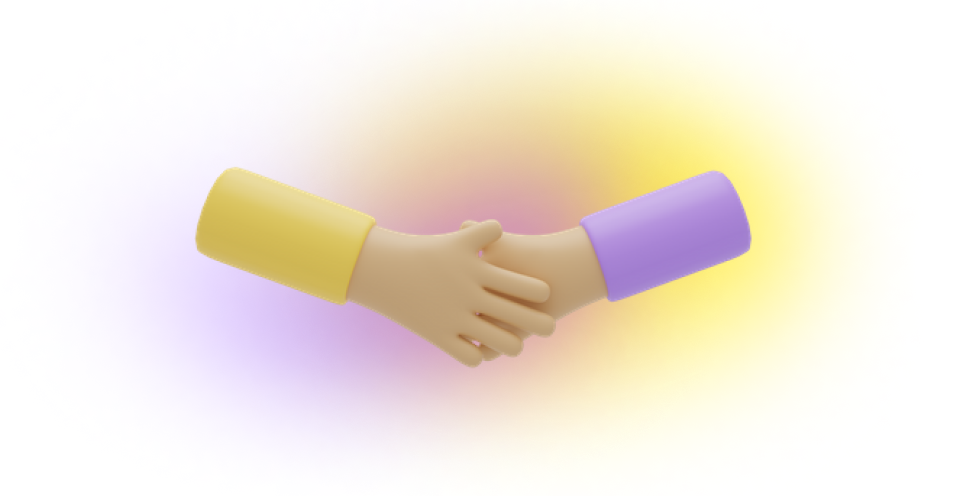
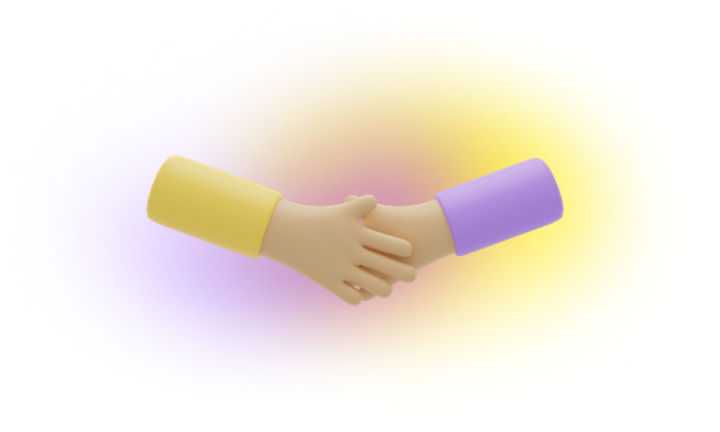
update image

diff --git a/src/screens/ObjectDetails/components/ObjectInfoSection/ObjectInfoSection.tsx b/src/screens/ObjectDetails/components/ObjectInfoSection/ObjectInfoSection.tsx
@@ -72,7 +72,9 @@ export const ObjectInfoSection = memo(({items}: IProps) => {
           withDropdown && isTitleTrunctated ? 'chevronShortDown' : undefined
         }
         label={withDropdown && isTitleTrunctated ? t('details') : undefined}
-        onPress={onPress}
+        onPress={
+          withDropdown ? (isTitleTrunctated ? onPress : undefined) : onPress
+        }
         boldTitle={boldTitle}
         onTitleTruncate={withDropdown ? setIsTitleTruncated : undefined}
       />

diff --git a/src/components/organisms/ObjectDetailsAddInfoSuccessMenu/ObjectDetailsAddInfoSuccessMenu.tsx b/src/components/organisms/ObjectDetailsAddInfoSuccessMenu/ObjectDetailsAddInfoSuccessMenu.tsx
@@ -29,7 +29,7 @@ export const ObjectDetailsAddInfoSuccessMenu = ({
           subtitle={t('addInfoSuccessSubtitle')}
           buttonText={t('cool')}
           imageAsset={theme === 'light' ? 'handshakeLight' : 'handshakeLight'}
-          imageStyle={{width: 240, height: 124}}
+          imageStyle={{width: 240, height: 144}}
         />
       </BottomMenu>
     </Portal>
